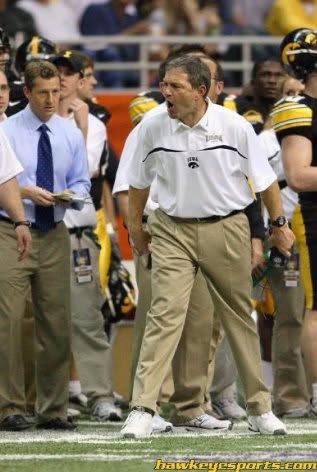
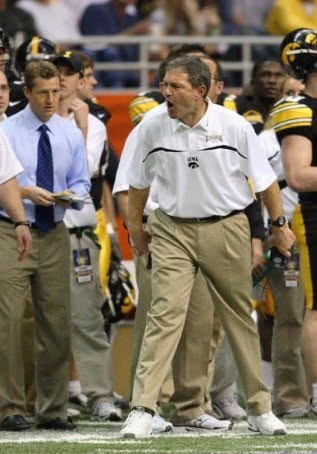
Add 2011 photo carousel; crop watermark from 2005 photo
- 2011 timeline entry: auto cross-fading carousel of 3 concert photos
  (~5s per slide, no controls; reduced-motion shows the first only)
- Crop the hawkeyesports.com watermark off the 2005 football photo

diff --git a/assets/css/styles.css b/assets/css/styles.css
@@ -1334,6 +1334,32 @@ body.cs-lock::before { opacity: 1; }
 /* Cap the width of portrait/vertical photos so they don't run too tall */
 .tl-media.is-portrait { max-width: 340px; justify-self: center; }
 
+/* 2011 auto-crossfade carousel: 3 stacked images fade between each other on a
+   timer (no controls). Keeps a fixed frame, overriding the single-photo
+   has-photo/is-portrait behaviour so all slides share one box. */
+.tl-media--carousel,
+.tl-media--carousel.has-photo,
+.tl-media--carousel.is-portrait { aspect-ratio: 16 / 11; max-width: none; background: #1a1922; }
+.tl-media--carousel img,
+.tl-media--carousel.has-photo img {
+  position: absolute; inset: 0; width: 100%; height: 100%;
+  object-fit: cover; border-radius: 16px;
+  opacity: 0; animation: tl-xfade 15s linear infinite;
+}
+.tl-media--carousel img:nth-of-type(2) { animation-delay: 5s; }
+.tl-media--carousel img:nth-of-type(3) { animation-delay: 10s; }
+@keyframes tl-xfade {
+  0%   { opacity: 0; }
+  5%   { opacity: 1; }
+  33%  { opacity: 1; }
+  40%  { opacity: 0; }
+  100% { opacity: 0; }
+}
+@media (prefers-reduced-motion: reduce) {
+  .tl-media--carousel img { animation: none; opacity: 0; }
+  .tl-media--carousel img:first-of-type { opacity: 1; }
+}
+
 /* Street View backdrop for the 1996 chapter — black base + (placeholder) Street
    View, full-bleed and fixed; opacity is driven by scroll in story.js. */
 .sv-bg {

diff --git a/about.html b/about.html
@@ -277,8 +277,10 @@
 
       <!-- 2011 — Iowa City  (copy synthesized — edit to taste) -->
       <article class="tl-row reverse">
-        <div class="tl-media" data-reveal="right">
-          <img src="assets/story/2011.jpg" alt="" loading="lazy" onerror="this.style.display='none'" />
+        <div class="tl-media tl-media--carousel" data-reveal="right">
+          <img src="assets/story/2011/1.JPG" alt="Concerts and shows Harrison promoted" loading="lazy" />
+          <img src="assets/story/2011/2.JPG" alt="" loading="lazy" />
+          <img src="assets/story/2011/3.JPG" alt="" loading="lazy" />
         </div>
         <div class="tl-node" data-reveal>
           <span class="tl-year">2011</span>        </div>